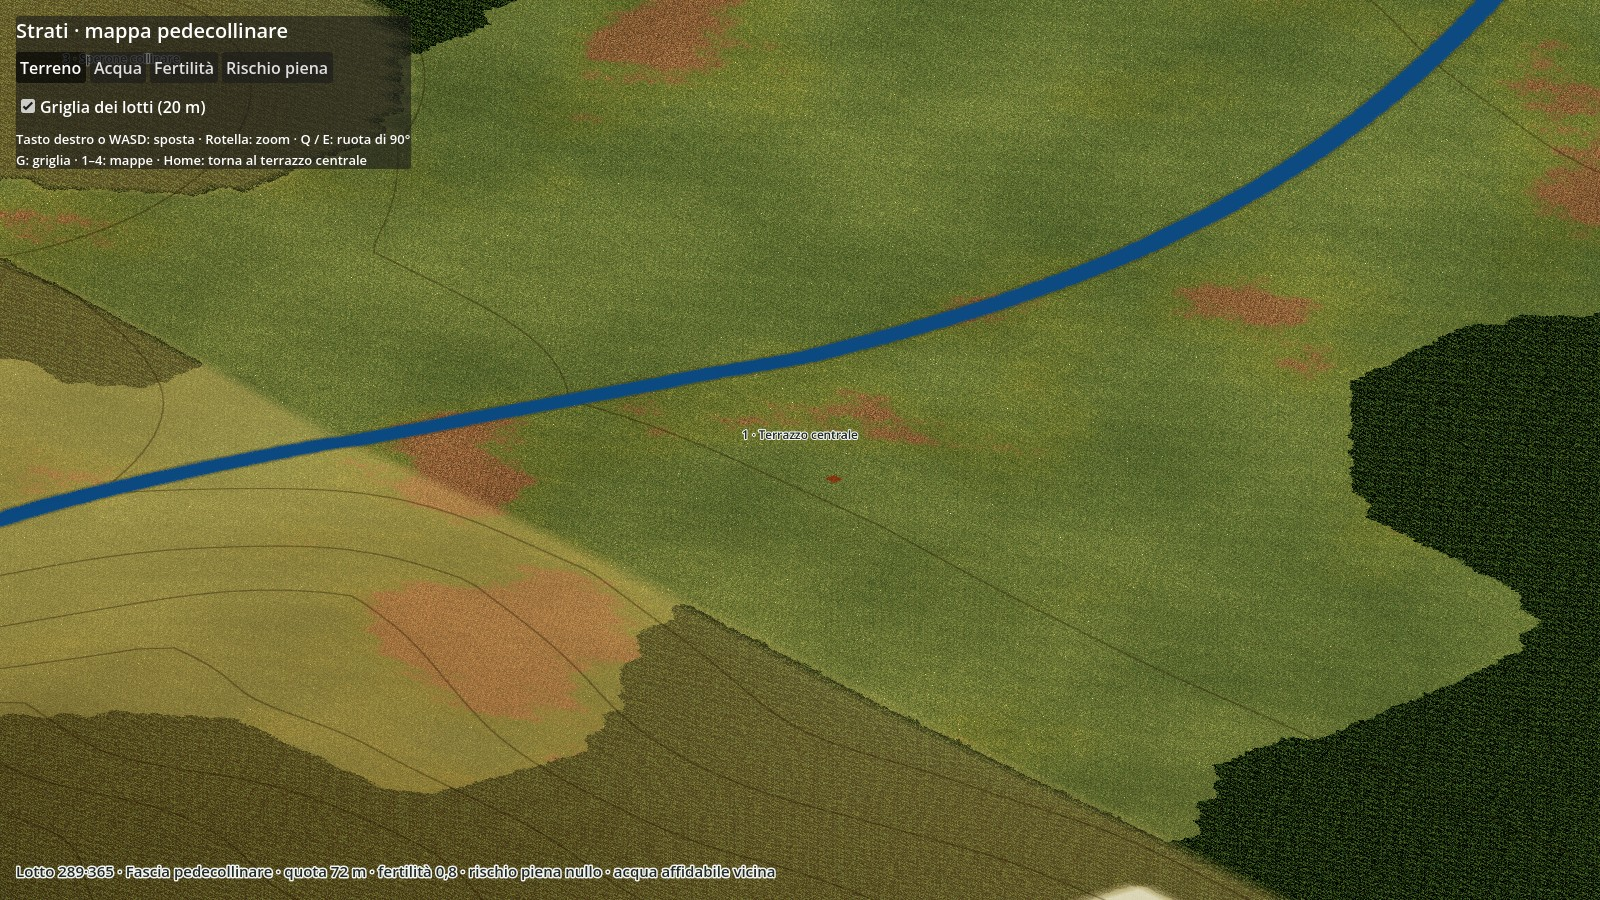
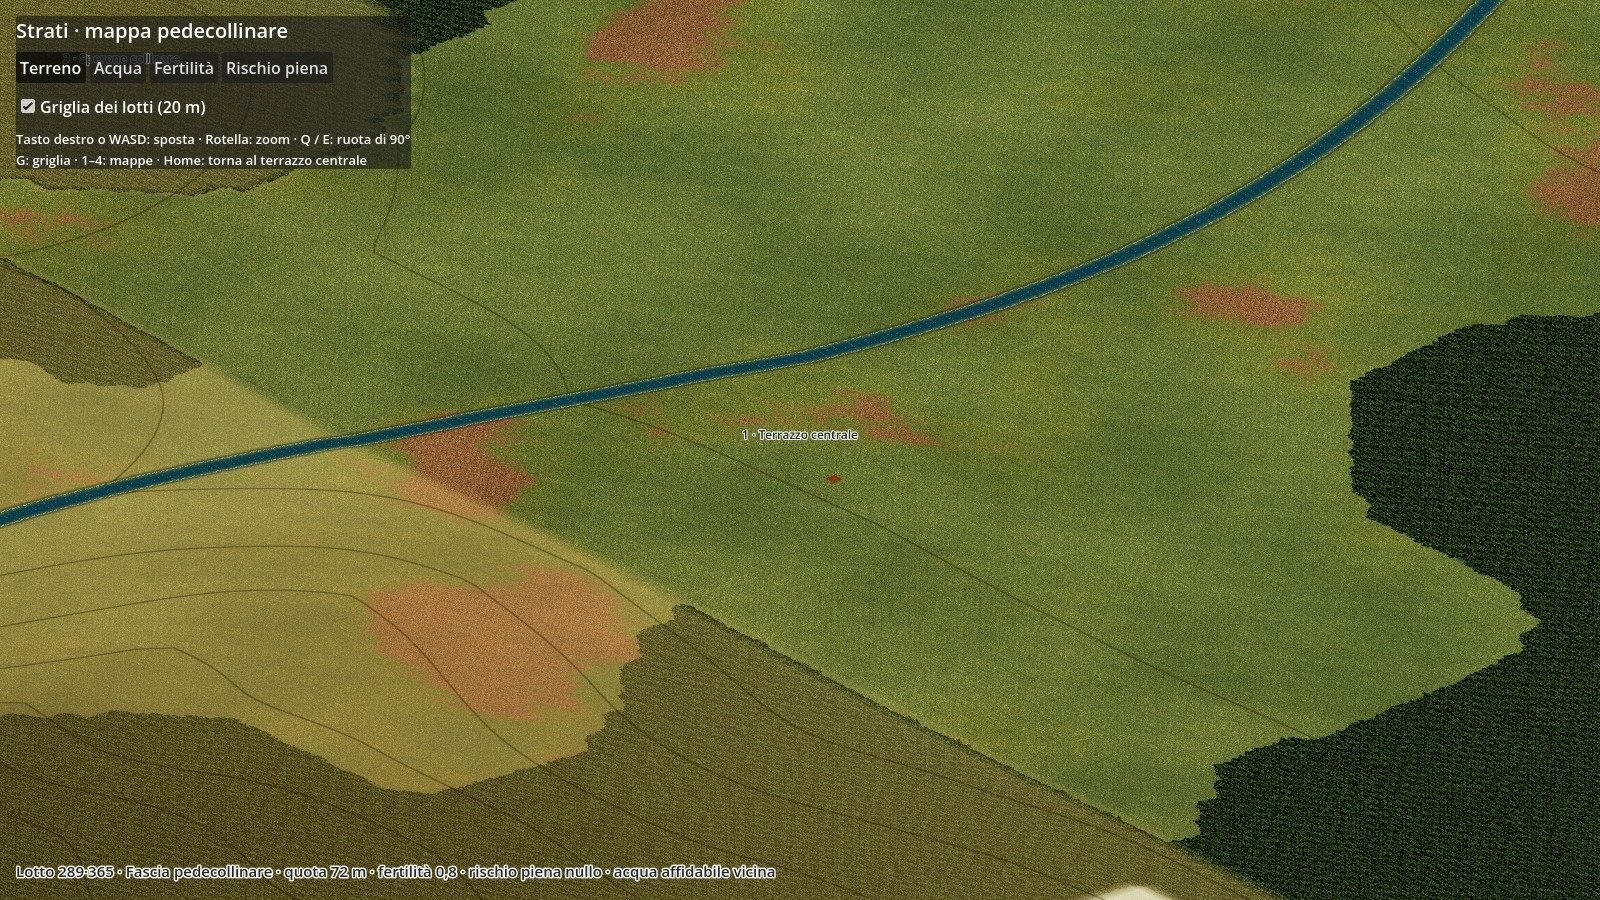
Acqua: profondità, increspature animate, riflessi, schiuma e sponda bagnata, senza fasce a gradini; documento sulla resa grafica comune a tutte le mappe
Claude-Session: https://claude.ai/code/session_01N4eDGmuEoEcJQdC5u5KEMd

Changed region(s): [[0.0, 0.0, 0.9375, 0.5911]]

diff --git a/docs/resa-grafica.md b/docs/resa-grafica.md
@@ -1,0 +1,56 @@
+# Resa grafica
+
+*I sistemi che danno l'aspetto al gioco. Valgono per tutte le mappe.*
+
+**Decisione di Fede (23/11/2026):** il lavoro su alberi, terreni, ombre, asset e acqua non riguarda una mappa sola. Ogni sistema deve funzionare con qualsiasi mappa a partire dai suoi dati, senza ritocchi a mano per la singola mappa.
+
+## Cosa deve fornire una mappa
+Ogni mappa è una risorsa `MappaDati` (`gioco/script/mappa_dati.gd`), generata da uno script in `strumenti/mappe/` e convertita con `strumenti/importa_mappa.gd`. I sistemi qui sotto leggono questi strati:
+
+| Strato | Risoluzione | Usato da |
+|---|---|---|
+| quote | griglia della mappa (oggi 256 × 256, 40 m) | forma del terreno, tinte per quota, pendii ripidi |
+| tipo (terra, fiume, torrente, palude, gessi) | griglia | colori delle zone speciali |
+| zona | griglia | tinta del suolo |
+| fertilità, acqua affidabile, acqua stagionale | griglia | mappe tematiche; distribuzione di verde e secco nel prato |
+| copertura (bosco) | griglia | boschi del terreno; in futuro posa degli alberi |
+| distanza dall'acqua | 4 volte la griglia (oggi 1024 × 1024, 2 m per unità) | fiumi, torrenti, rive |
+
+Una mappa nuova eredita tutto il resto: basta che fornisca questi strati.
+
+## Terreno e prato
+Codice: `gioco/shader/terreno.gdshader`, `gioco/script/terreno.gd`.
+- **Erba:** texture a fili sottili (`erba.png`), letta due volte con orientamenti diversi per spezzarne la ripetizione; variazione minuta di tono da vicino.
+- **Verde, ingiallito, secco:** distribuiti da due rumori unici per tutta la mappa, generati all'avvio con `FastNoiseLite`, e dai dati del luogo: più secco lontano dall'acqua e sui terreni poco fertili. Nessuna ripetizione a nessuno zoom; i dati a celle sono ammorbiditi, così i bordi non fanno scalini. Richiesta di Fede: niente texture ripetute nelle parti aride; la priorità è la resa del prato.
+- **Pendii ripidi:** l'erba si dirada e affiora la terra.
+- **Boschi:** bordi irregolari e una volta di chiome dipinta, dalla copertura. È un segnaposto: **andranno posati alberi veri** (decisione di Fede).
+- **Texture:** generate da `strumenti/blender/texture_procedurali.py`.
+
+## Acqua
+Codice: in fondo a `gioco/shader/terreno.gdshader`. Dati: la distanza dalla riva, che `terreno.gd` converte in virgola mobile (in 8 bit faceva fasce a gradini).
+- Profondità che sfuma dalla riva (bassa e verdastra) al centro (verde-azzurro più scuro).
+- Increspature che scorrono nel tempo, in due strati più un'ondulazione lenta; riflessi del cielo sulle creste e un poco di luce propria, così l'acqua non diventa scura in ombra.
+- Superficie liscia e riflettente (il terreno no).
+- Schiuma sottile lungo la riva, sponda bagnata più scura e un velo di limo.
+- Da fare: corrente nel verso del fiume, cascate e rapide sui torrenti, paludi con acqua bassa e canne, livelli che cambiano con le piene.
+
+## Luce e ombre
+Codice: `gioco/script/principale.gd` (sole e ambiente), `gioco/script/camera_isometrica.gd` (distanza e piani di taglio).
+- **Sole da sinistra, ombre lunghe verso destra** sullo schermo (decisione di Fede). Il sole gira con la camera, quindi vale a ogni rotazione. Altezza 42°: costanti `ALTEZZA_SOLE` e `AZIMUT_SOLE`.
+- La camera sta appena fuori dalla fetta di terreno visibile e la mappa d'ombra copre solo quella: ombre nitide anche a 35 m. Con la camera lontana le ombre sparivano.
+- Sole caldo, luce del cielo un po' fredda: ombre leggibili e non nere.
+
+## Alberi
+Codice: `strumenti/blender/prova_stile_verosimile.py` (funzione `albero`). Regole e catalogo: `docs/asset.md`.
+- Chiome a lobi fatte di carte di foglie singole; normali sferiche per la luce sul volume; ombra interna calcolata.
+- Specie definite da pochi parametri (tabella `SPECIE`): quercia, carpino, pioppo, acero, arbusto. Una mappa con altro clima avrà altre specie con lo stesso generatore.
+- Da fare: posa sulla mappa con istanze multiple, una versione leggera per la distanza, scelta della specie in base al luogo (umidità, quota).
+
+## Asset
+Regole, stile e catalogo: `docs/asset.md`. Ogni asset nasce da uno script, così si può rigenerare quando cambiano lo stile o le regole.
+
+## Come controllare
+- `test/foto.gd`: territorio attorno al sito iniziale, a qualsiasi zoom.
+- `test/foto_asset.gd`: asset posati vicino al sito iniziale.
+- `test/foto_luogo.gd`: margine di bosco o riva del fiume più vicini al sito (`-- dimensione bosco|acqua`).
+- Le righe di comando complete sono in `CLAUDE.md`.

diff --git a/docs/asset.md b/docs/asset.md
@@ -1,6 +1,6 @@
 # Asset
 
-*Guida di stile, regole tecniche e catalogo degli asset 3D.*
+*Guida di stile, regole tecniche e catalogo degli asset 3D. I sistemi comuni a tutte le mappe (terreno, prato, acqua, luce, alberi) sono descritti in `docs/resa-grafica.md`.*
 
 ## Approccio (deciso)
 - **Edifici procedurali** generati dalla forma del lotto (pianta, piani, tetto, materiali secondo l'epoca), soprattutto dalle epoche urbane in poi.
@@ -37,7 +37,7 @@
 - **Cinque specie:** quercia (larga, verde oliva), carpino (tondo, verde freddo), pioppo (colonnare, verde chiaro), acero in autunno (giallo e arancio), arbusto di nocciolo (senza tronco, con fusti dal suolo). L'acero autunnale serve a provare la varietà di colore: le stagioni nel gioco non sono ancora decise.
 - **Prato:** texture fatta di migliaia di fili sottili invece che di macchie, con una seconda lettura ruotata che ne spezza la ripetizione; chiazze di erba secca rossiccia (distribuzione: vedi più sotto).
 - **Ombre (corrette dopo la segnalazione di Fede, 23/11/2026):** mancavano per due motivi. (1) Il sole stava alle spalle della camera: ogni ombra cadeva dietro l'oggetto che la proiettava e restava nascosta, e tutto era illuminato di fronte, quindi piatto. Ora il sole gira con la camera. **Decisione di Fede (23/11/2026): sole da sinistra, ombre lunghe verso destra sullo schermo**, a ogni rotazione (altezza 42°, 270° rispetto alla direzione dello sguardo: costanti `ALTEZZA_SOLE` e `AZIMUT_SOLE` in `principale.gd`). È una scelta di leggibilità: in un mondo realistico il sole non seguirebbe la camera. (2) La camera stava a 20 km dal punto guardato e le ombre del sole, che coprono lo spazio dalla camera alla distanza massima, sfumavano fino a sparire. Ora la distanza della camera segue lo zoom e la mappa d'ombra copre solo la fetta di terreno visibile: ombre nitide anche a 35 m. Sole un po' caldo, luce del cielo un po' fredda, così le ombre non vengono nere.
-- **Terreno (stessa sessione):** i boschi non stanno più nei colori dei vertici, che davano bordi a gradini da 40 m. Li disegna lo shader dalla copertura della mappa, con bordi irregolari e una volta di chiome fatta di due texture di foglie a strati, con macchie di luce e d'ombra grandi come alberi. Segnaposto finché non ci saranno alberi veri posati sulla mappa. Sui pendii ripidi l'erba si dirada e affiora la terra. Immagine del margine di un bosco: `docs/immagini/terreno-margine-bosco.jpg` (con `test/foto_bosco.gd`).
+- **Terreno (stessa sessione):** i boschi non stanno più nei colori dei vertici, che davano bordi a gradini da 40 m. Li disegna lo shader dalla copertura della mappa, con bordi irregolari e una volta di chiome fatta di due texture di foglie a strati, con macchie di luce e d'ombra grandi come alberi. Segnaposto finché non ci saranno alberi veri posati sulla mappa. Sui pendii ripidi l'erba si dirada e affiora la terra. Immagine del margine di un bosco: `docs/immagini/terreno-margine-bosco.jpg` (con `test/foto_luogo.gd`).
 - **Prato senza ripetizioni (richiesta di Fede, 23/11/2026: evitare la texture ripetuta nelle parti aride, concentrarsi sulla resa del prato):** la distribuzione di verde e secco non viene più da maschere piccole ripetute ma da due rumori unici per tutta la mappa (1024 × 1024, circa 10 m per pixel, generati in `terreno.gd` con `FastNoiseLite`) e dai dati del luogo: più secco lontano dall'acqua e sui terreni poco fertili, più verde vicino ai fiumi. Tre stadi: erba verde, ingiallita, secca rossiccia. I dati a celle da 40 m sono ammorbiditi da quattro letture sfalsate, così i bordi non fanno scalini; le maschere piccole servono solo a frastagliare i bordi e a variare il tono dei ciuffi da vicino. Immagini: `docs/immagini/prato-160m.jpg`, `prato-5000m.jpg`.
 - Immagini: `docs/immagini/prova-stile-v3-vicino.jpg` (vista di 35 m), `-medio.jpg` (70 m), `-territorio.jpg` (1500 m), `-foglie.jpg` (le quattro texture delle foglie).
 

diff --git a/docs/diario.md b/docs/diario.md
@@ -15,6 +15,7 @@ Voci più recenti in cima.
 - **Terza versione di alberi e prato**, dopo il parere di Fede sulla seconda e le sue reference di AoE IV: zoom fino a 40 m; foglie singole e grandi, una texture per specie; chiome a lobi con normali sferiche e ombra interna calcolata; cinque specie (quercia, carpino, pioppo, acero autunnale, arbusto); prato a fili sottili con chiazze di erba secca e meno ripetizione; piani di taglio della camera stretti per ombre nitide da vicino. Dettagli in `docs/asset.md`, immagini in `docs/immagini/prova-stile-v3-*.jpg`. Ombre: Fede ha notato che mancavano del tutto. Non era un limite dell'ambiente di Claude ma due errori del progetto: il sole stava alle spalle della camera (ombre nascoste dietro gli oggetti) e la camera era a 20 km (ombre sfumate fino a sparire). Ora il sole gira con la camera (da sinistra, ombre lunghe verso destra, come chiesto da Fede) e la distanza della camera segue lo zoom: le ombre si vedono e sono nitide da vicino.
 - **Terreno migliorato:** boschi con bordi irregolari (non più a gradini da 40 m) e una volta di chiome dipinta, in attesa degli alberi veri; terra che affiora sui pendii ripidi.
 - **Prato senza ripetizioni:** verde, ingiallito e secco distribuiti da rumori unici per tutta la mappa e dai dati del luogo (acqua, fertilità), bordi morbidi senza scalini, variazione di tono minuta da vicino.
+- **Acqua:** profondità che sfuma dalla riva al centro, increspature animate, riflessi del cielo, schiuma lungo la riva, sponda bagnata; risolte le fasce a gradini (distanza dalla riva ora in virgola mobile). Nuovo documento `docs/resa-grafica.md` sui sistemi grafici comuni a tutte le mappe.
 - Strumenti nell'ambiente di Claude: Godot 4.7.2 senza grafica e Blender 5.3 come modulo Python; catena Blender → glTF → Godot provata con una casa lunga neolitica.
 
 **Decisioni (Fede)**
@@ -27,6 +28,7 @@ Voci più recenti in cima.
 - Base Godot: partire dal terreno, dalla camera isometrica e dalla griglia dei lotti.
 - Stile degli asset: verosimile, anche nei colori; no allo stile "plastico" e agli alberi con pochi poligoni. Riferimento per l'aspetto: Age of Empires IV.
 - Luce: sole da sinistra, ombre lunghe proiettate verso destra sullo schermo.
+- Alberi, terreni, ombre, asset e acqua sono sistemi comuni a tutte le mappe, non lavoro sulla singola mappa.
 - Terreno: priorità alla resa del prato; niente texture ripetute nelle parti aride. Gli alberi veri andranno posati sulla mappa al posto della volta di chiome dipinta.
 - Seconda versione della prova di stile: direzione giusta. Da migliorare il prato (grossolano), il dettaglio a zoom ravvicinato e la forma e il riempimento delle chiome.
 

diff --git a/CLAUDE.md b/CLAUDE.md
@@ -42,4 +42,5 @@ Dopo `sh scripts/setup_strumenti.sh`, aggiungi i comandi al percorso: `export PA
 - Mappa: `gioco/mappe/pedecollinare/` (dati grezzi generati in Python, convertiti in `mappa.res`, classe `MappaDati`). Griglia di 256 x 256 punti da 40 m; acque disegnate da un campo di distanza a 1024 x 1024.
 - Coordinate: 1 unità = 1 metro; x verso est, z verso sud; quote con esagerazione verticale 1,5.
 - Asset: caricarli sempre con `Asset.istanzia(percorso)` (`script/asset.gd`), che attiva l'occlusione cotta nei colori dei vertici.
+- Resa grafica (terreno, prato, acqua, luce e ombre, alberi): sistemi comuni a tutte le mappe, descritti in `docs/resa-grafica.md`. Foto di controllo: `test/foto.gd`, `test/foto_asset.gd`, `test/foto_luogo.gd -- dimensione bosco|acqua`.
 - Lotti: griglia di 20 m disegnata dallo shader del terreno; il lotto sotto il puntatore si calcola intersecando il raggio della camera con il terreno (niente fisica).
